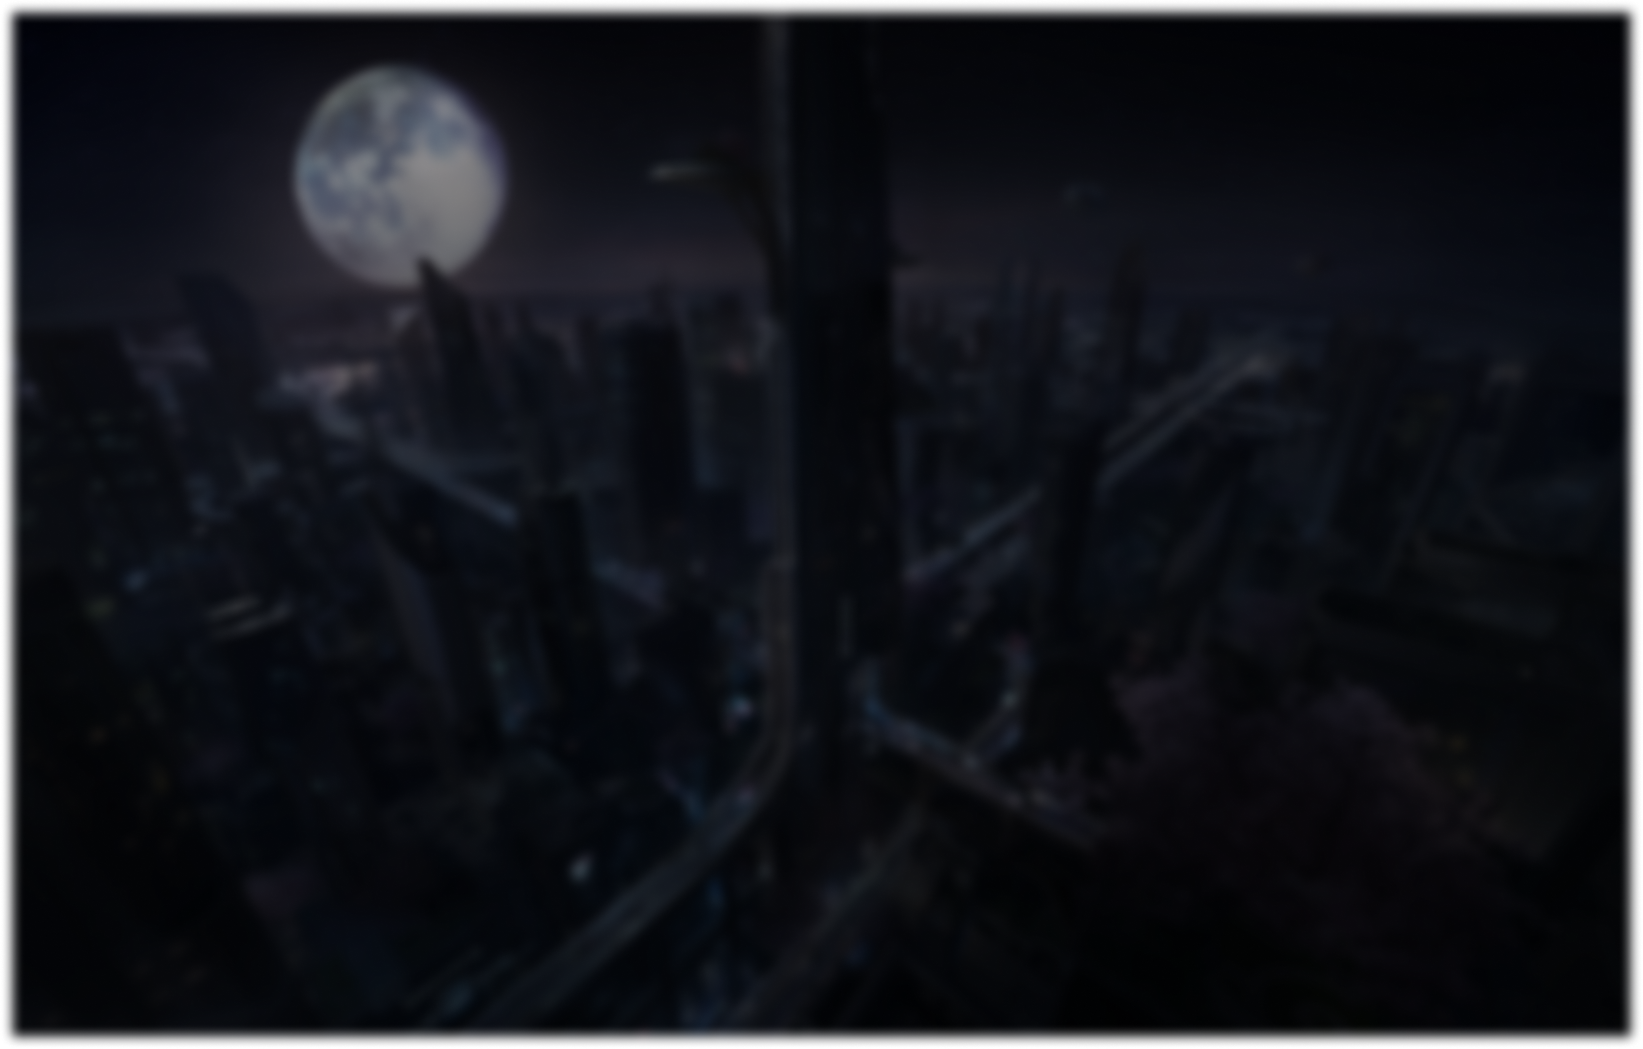
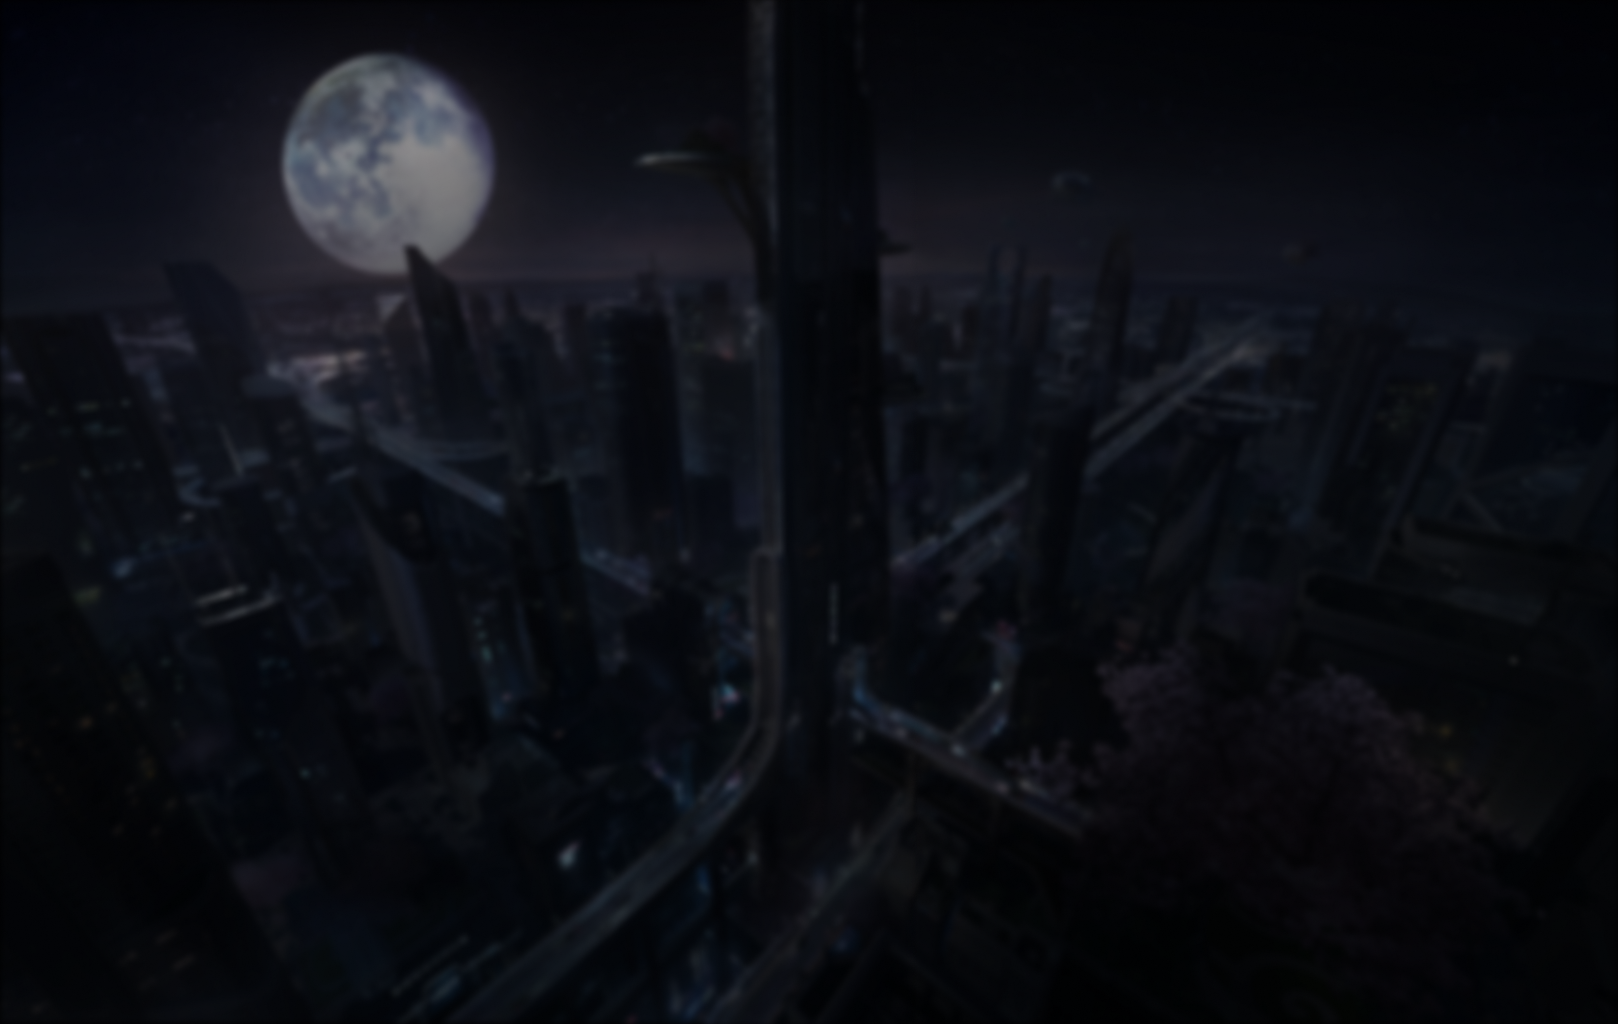
fix: fix bg picture for app

diff --git a/src/Layout.jsx b/src/Layout.jsx
@@ -5,15 +5,18 @@ import { FloatButton } from 'antd';
 
 function Layout() {
     return (
-        <div className="container">
-            <Header />
-            <ScrollRestoration />
-            <main className="main">
-                <Outlet /> {/* сюда подставляются страницы */}
-            </main>
-            <Footer />
-            <FloatButton.BackTop />
-        </div>
+        <>
+            <div className="fixed-bg"></div>
+            <div className="container">
+                <Header />
+                <ScrollRestoration />
+                <main className="main">
+                    <Outlet /> {/* сюда подставляются страницы */}
+                </main>
+                <Footer />
+                <FloatButton.BackTop />
+            </div>
+        </>
     );
 }
 

diff --git a/src/index.css b/src/index.css
@@ -22,13 +22,9 @@ body {
     font-family: TikTok Sans, monospace !important;
     font-size: 14px;
 
-    background-color: var(--bg-primary);
-    background-image: var(--bg-image);
-    background-size: cover;
 }
 
-body::before {
-    content: '';
+.fixed-bg {
     position: fixed;
     top: 0;
     left: 0;
@@ -38,10 +34,8 @@ body::before {
     height: 100%;
     background-image: var(--bg-image);
     background-size: cover;
-    background-position: center;
     background-repeat: no-repeat;
     z-index: -1;
-    pointer-events: none;
 }
 
 .container {
@@ -52,8 +46,6 @@ body::before {
     flex: 1;
     display: flex;
     flex-direction: column;
-    position: relative;
-    z-index: 1;
 }
 
 .main {
